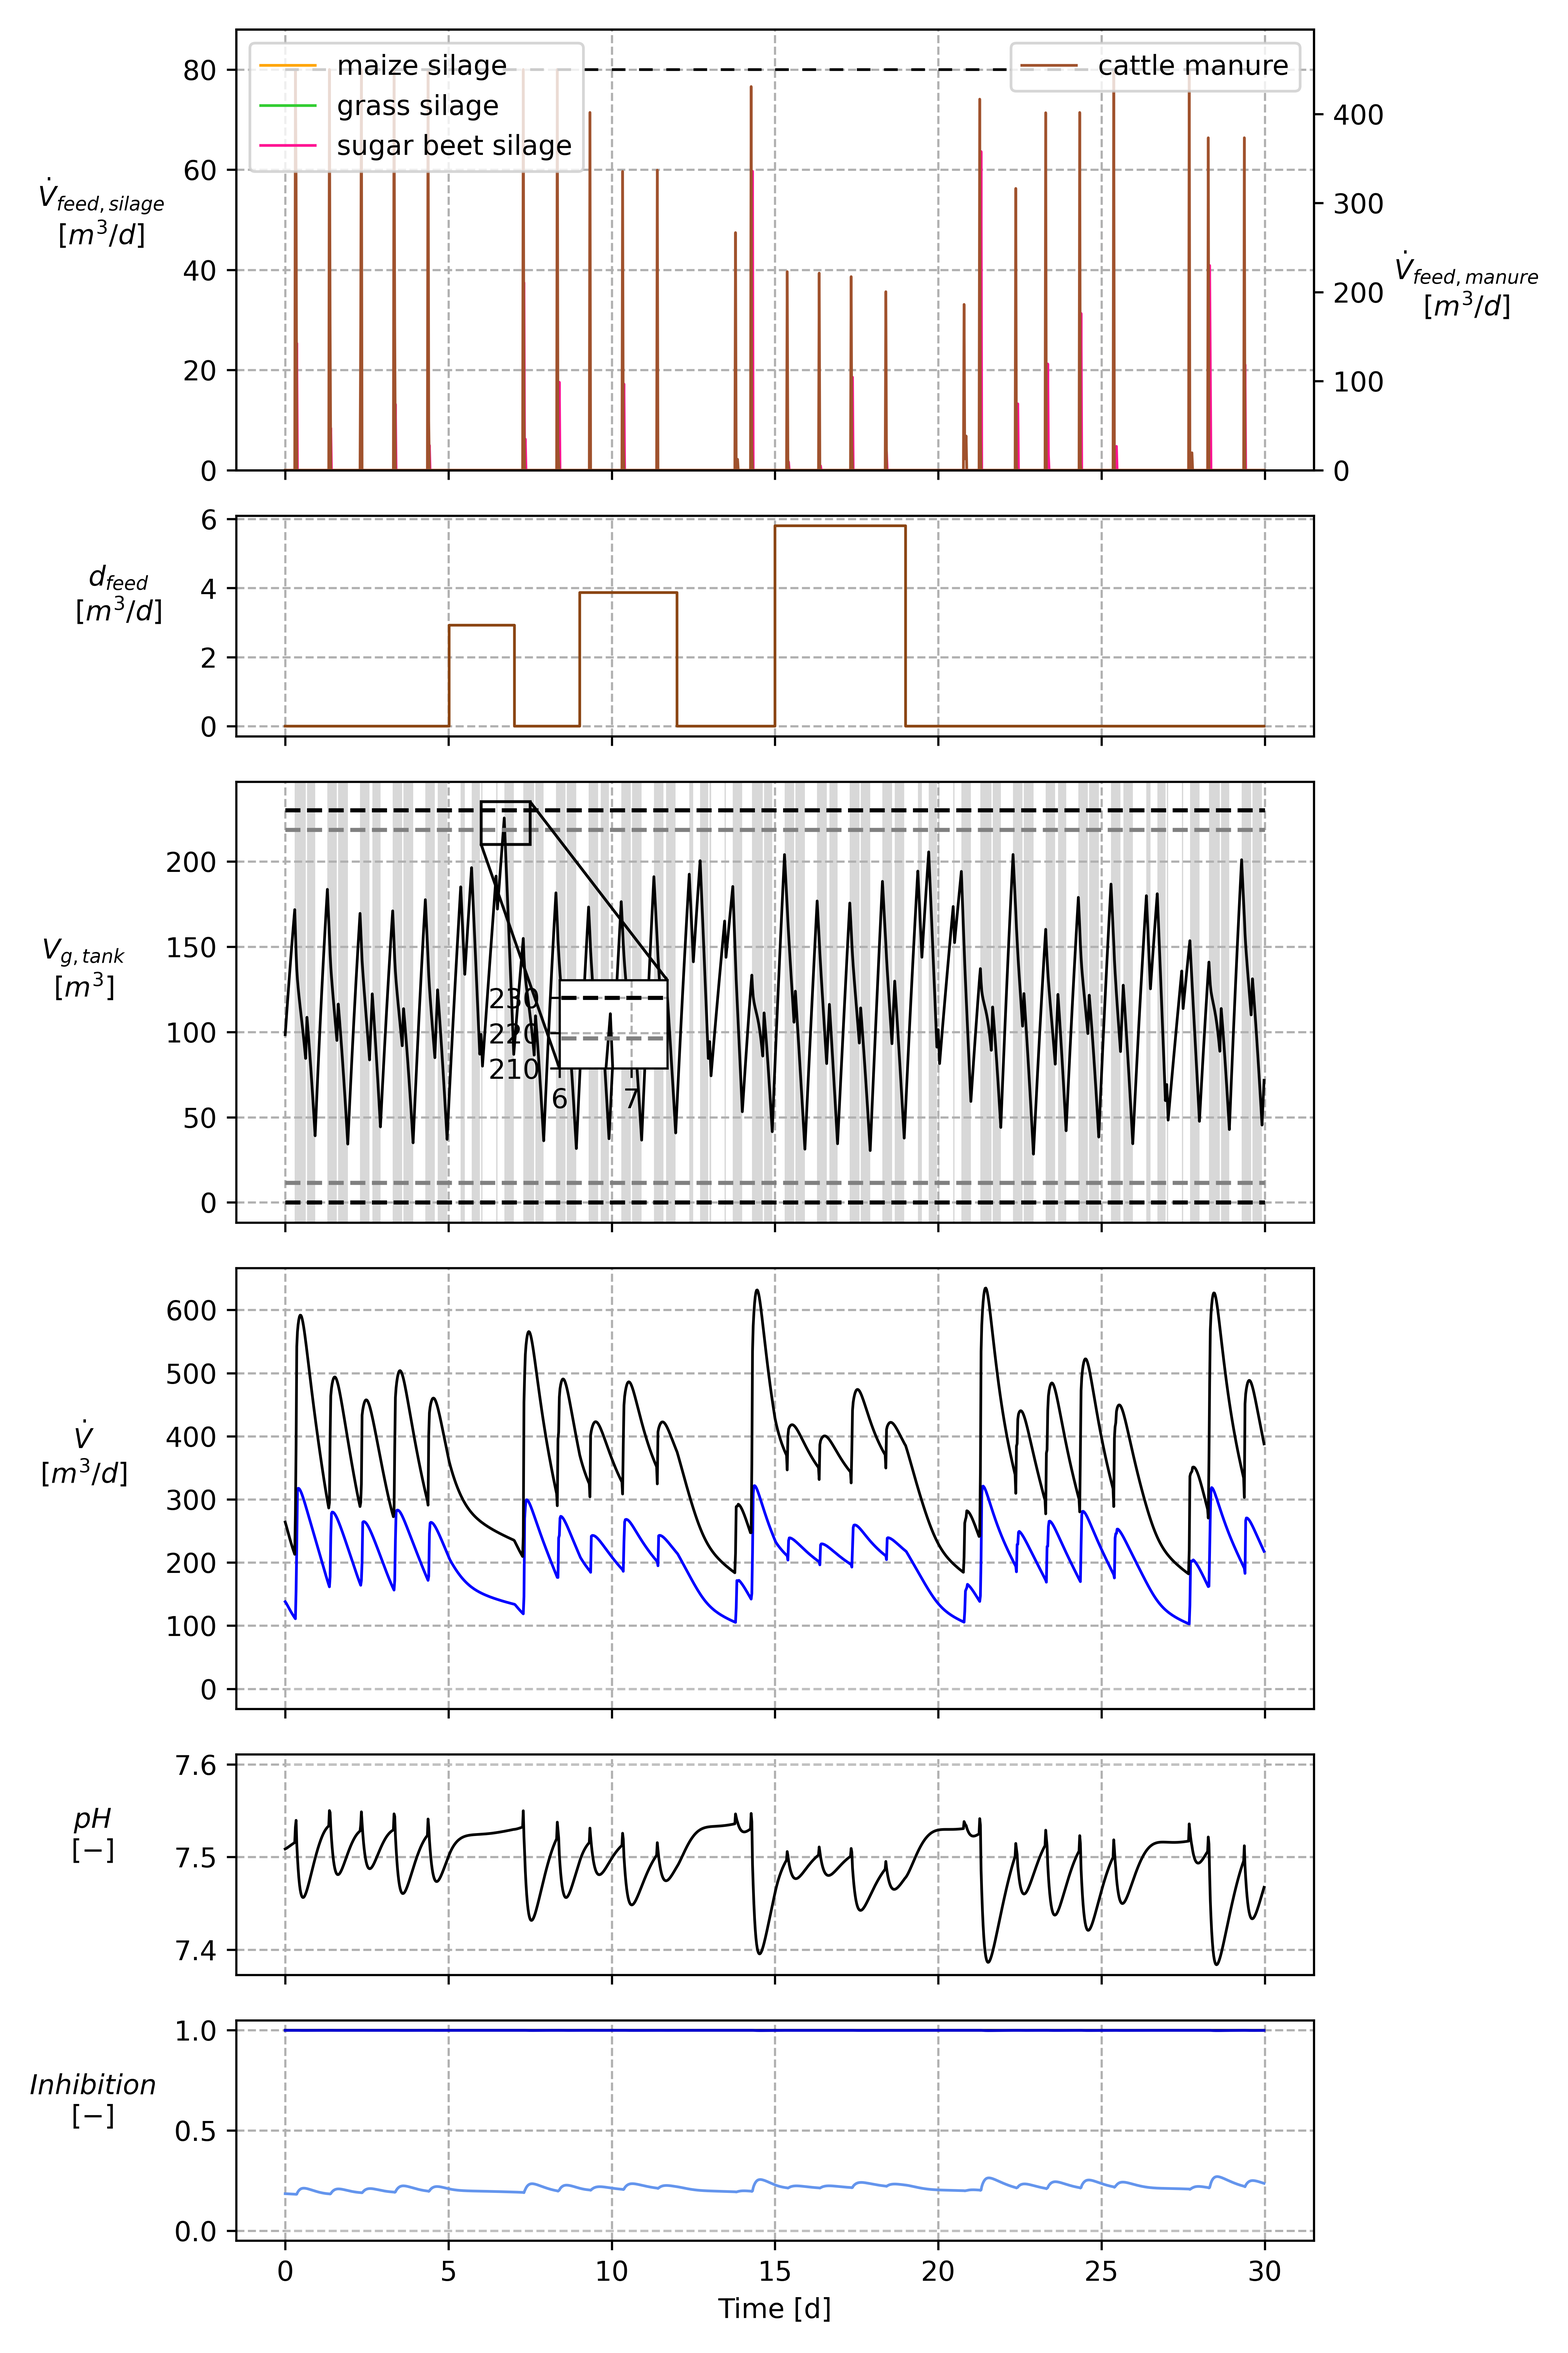
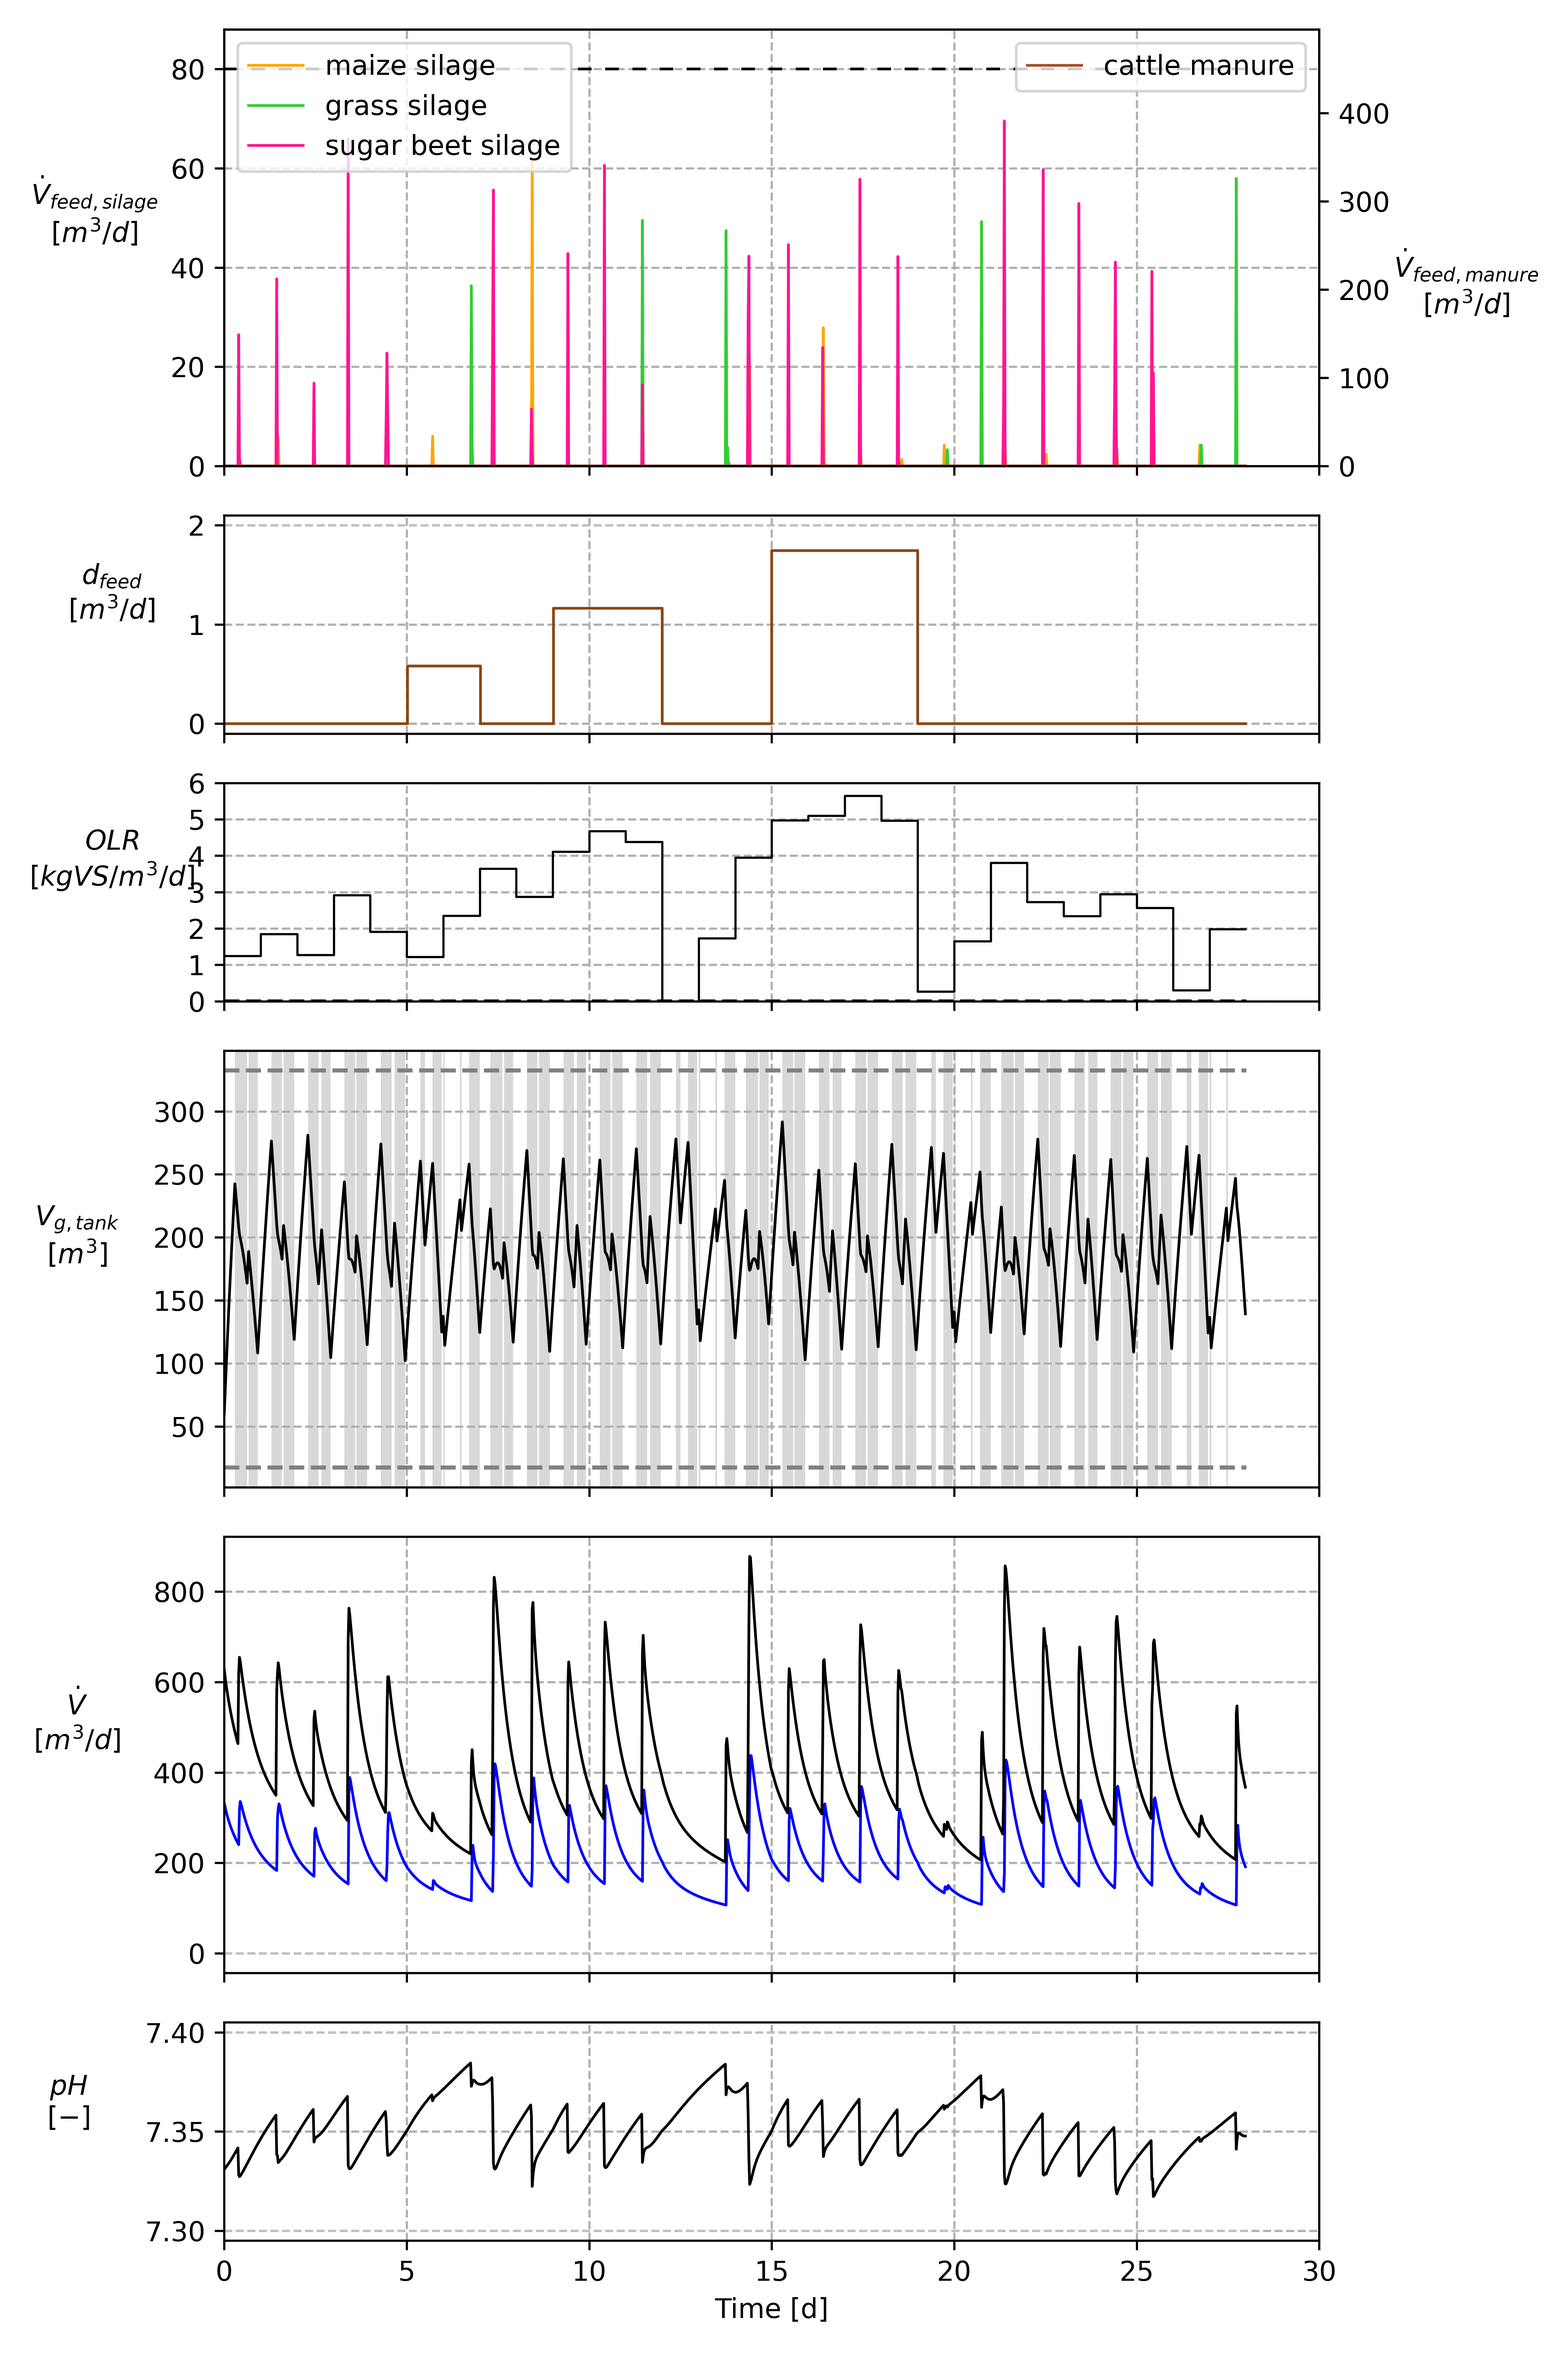
update Scenario 2c

diff --git a/ad_meal_prep_control/plot_generation/plot_scenario_2c.py b/ad_meal_prep_control/plot_generation/plot_scenario_2c.py
@@ -97,58 +97,61 @@ post_processing.plot(
                 )
             },
         ),
-        (
-            r"$Inhibition$" + "\n" + r"$[-]$",
-            {
-                "inhibition_1": PlotVarProperty(
-                    mpl_properties=MPLProperties(
-                        color="black", linewidth=1, linestyle="-"
-                    ),
-                    label=r"$Inhibition_1$",
-                ),
-                "inhibition_2": PlotVarProperty(
-                    mpl_properties=MPLProperties(
-                        color="mediumblue", linewidth=1, linestyle="-"
-                    ),
-                    label=r"$Inhibition_2$",
-                ),
-                "inhibition_3": PlotVarProperty(
-                    mpl_properties=MPLProperties(
-                        color="cornflowerblue", linewidth=1, linestyle="-"
-                    ),
-                    label=r"$Inhibition_3$",
-                ),
-            },
-        ),
+        # (
+        #     r"$Inhibition$" + "\n" + r"$[-]$",
+        #     {
+        #         "inhibition_1": PlotVarProperty(
+        #             mpl_properties=MPLProperties(
+        #                 color="black", linewidth=1, linestyle="-"
+        #             ),
+        #             label=r"$Inhibition_1$",
+        #         ),
+        #         "inhibition_2": PlotVarProperty(
+        #             mpl_properties=MPLProperties(
+        #                 color="mediumblue", linewidth=1, linestyle="-"
+        #             ),
+        #             label=r"$Inhibition_2$",
+        #         ),
+        #         "inhibition_3": PlotVarProperty(
+        #             mpl_properties=MPLProperties(
+        #                 color="cornflowerblue", linewidth=1, linestyle="-"
+        #             ),
+        #             label=r"$Inhibition_3$",
+        #         ),
+        #     },
+        # ),
     ],
     plot_save_name="Scenario_2c_dynamic",
     constraints=[
         Constraint(value=0.0, ax_idx=2),
         Constraint(value=params_R3.V_GAS_STORAGE_MAX, ax_idx=2),
-        Constraint(value=0.05 * params_R3.V_GAS_STORAGE_MAX, ax_idx=2, color="grey"),
-        Constraint(value=0.95 * params_R3.V_GAS_STORAGE_MAX, ax_idx=2, color="grey"),
+        Constraint(value=0.05 * params_R3.V_GAS_STORAGE_MAX, ax_idx=3, color="grey"),
+        Constraint(value=0.95 * params_R3.V_GAS_STORAGE_MAX, ax_idx=3, color="grey"),
         # adapt ylim of plots by adding invisible horizontal lines:
-        Constraint(value=0, ax_idx=3, color="white"),  # gas production lower bound
-        Constraint(value=7.6, ax_idx=4, color="white"),  # pH upper bound
-        Constraint(value=0, ax_idx=5, color="white"),  # inhibition lower bound
+        Constraint(value=2, ax_idx=1, color="white"),    # dictated feeding upper bound
+        Constraint(value=0, ax_idx=4, color="white"),    # gas production lower bound
+        Constraint(value=7.4, ax_idx=5, color="white"),  # pH upper bound
+        Constraint(value=7.3, ax_idx=5, color="white"),  # pH lower bound
+        #Constraint(value=0, ax_idx=5, color="white"),   # inhibition lower bound
     ],
     dpi=dpi,
     show_plot=show_plot,
-    height_ratios=[2, 1, 2, 2, 1, 1],
+    height_ratios=[2, 1, 1, 2, 2, 1],
     # input_inset_axes=[
     #     {
     #         "days": (12, 13),
     #         "ylimit": (0, 1),
     #         "inset_axis_specs": (0.4, 0.7, 0.05, 0.15),
     #     }],
-    other_inset_axes=[
-        {
-            "plot_idx": 2,
-            "days": (6, 7.5),
-            "ylimit": (210, 235),
-            "inset_axis_specs": (0.3, 0.35, 0.1, 0.2),
-        },
-    ],
-    color_background_indices=(2,),
+    # other_inset_axes=[
+    #     {
+    #         "plot_idx": 3,
+    #         "days": (6, 7.5),
+    #         "ylimit": (320, 340),
+    #         "inset_axis_specs": (0.3, 0.35, 0.1, 0.2),
+    #     },
+    # ],
+    color_background_indices=(3,),
+    plot_olr=True,
 )
-controller_plotting_2c()
+#controller_plotting_2c()

diff --git a/ad_meal_prep_control/postprocessing.py b/ad_meal_prep_control/postprocessing.py
@@ -578,7 +578,7 @@ class PostProcessing:
             axis.set_ylabel(
                 y_label,
                 rotation=0,
-                labelpad=30.0,
+                labelpad=self._scenario_meta_data["n_days_mpc"],
             )
 
             # __SH: adjust ylabel for liquid substrates:
@@ -586,7 +586,7 @@ class PostProcessing:
                 ax_inputs_liquid.set_ylabel(
                     r"$\dot V_{feed,manure}$" + "\n" + r"$[m^3/d]$",
                     rotation=0,
-                    labelpad=30.0,
+                    labelpad=self._scenario_meta_data["n_days_mpc"],
                 )
 
         # Gray coloring of plot background
@@ -609,6 +609,7 @@ class PostProcessing:
         if time_range is not None:
             plt.setp(axes, xlim=time_range)
 
+        plt.xlim(0, np.ceil(self._scenario_meta_data["n_days_mpc"]/5)*5)  # integer multiples of 5
         fig.set_size_inches(w=8, h=2 * len(axes))
 
         fig.tight_layout()

diff --git a/ad_meal_prep_control/scenarios/scenario_2c.py b/ad_meal_prep_control/scenarios/scenario_2c.py
@@ -13,11 +13,11 @@ import random
 np.random.seed(seed=42)
 
 # user input:
-n_days_mpc = 30
+n_days_mpc = 28
 n_std_dev = 1  # number std deviations
 t_step = 0.5 / 24.0
 fill_level_setpoint = 0.5
-c_1 = 1e2
+c_1 = 1e3
 lterm = (f"{c_1} * (model.aux['v_gas_storage']/V_GAS_STORAGE_MAX - {fill_level_setpoint})**2"
          )
 
@@ -65,9 +65,9 @@ kwargs = {
     "disturbances": Disturbances(
         state_jumps={18: state_jumps_ch4, 19: state_jumps_co2},
         dictated_feeding={
-            "CATTLE_MANURE_VERY_UNCERTAIN": [(5.0, 7.0, 0.0065),
-                                             (9.0, 12.0, 0.0086),
-                                             (15.0, 19.0, 0.0129)],
+            "CATTLE_MANURE_VERY_UNCERTAIN": [(5.0, 7.0, 1.292e-3),
+                                             (9.0, 12.0, 2.585e-3),
+                                             (15.0, 19.0, 3.877e-3)],
         },
         #max_feeding_error=0.05,
     ),

diff --git a/ad_meal_prep_control/mpc.py b/ad_meal_prep_control/mpc.py
@@ -84,12 +84,12 @@ def mpc_setup(
                     for dictated_sub in dictated_sub_properties:
                         start_time = dictated_sub[0]
                         end_time = dictated_sub[1]
-                        feed_amount = dictated_sub[2]  # __SH: normalized
+                        feed_vol_flow = dictated_sub[2]  # __SH: normalized
 
                         time_k = t_now + t_step * k
                         if time_k >= start_time and time_k < end_time:
                             tvp_template["_tvp", k, "dictated_sub_feed", feed_idx] = (
-                                feed_amount
+                                feed_vol_flow
                             )
                             break
                         else:

diff --git a/ad_meal_prep_control/simulator.py b/ad_meal_prep_control/simulator.py
@@ -42,9 +42,9 @@ def simulator_setup(
                 for dictated_sub in dictated_sub_properties:
                     start_time = dictated_sub[0]
                     end_time = dictated_sub[1]
-                    feed_amount = dictated_sub[2]  # __SH: normalized
+                    feed_vol_flow = dictated_sub[2]  # __SH: normalized
                     if t_now >= start_time and t_now < end_time:
-                        tvp_template["dictated_sub_feed", feed_idx] = feed_amount
+                        tvp_template["dictated_sub_feed", feed_idx] = feed_vol_flow
                         break
                     else:
                         tvp_template["dictated_sub_feed", feed_idx] = 0.0
